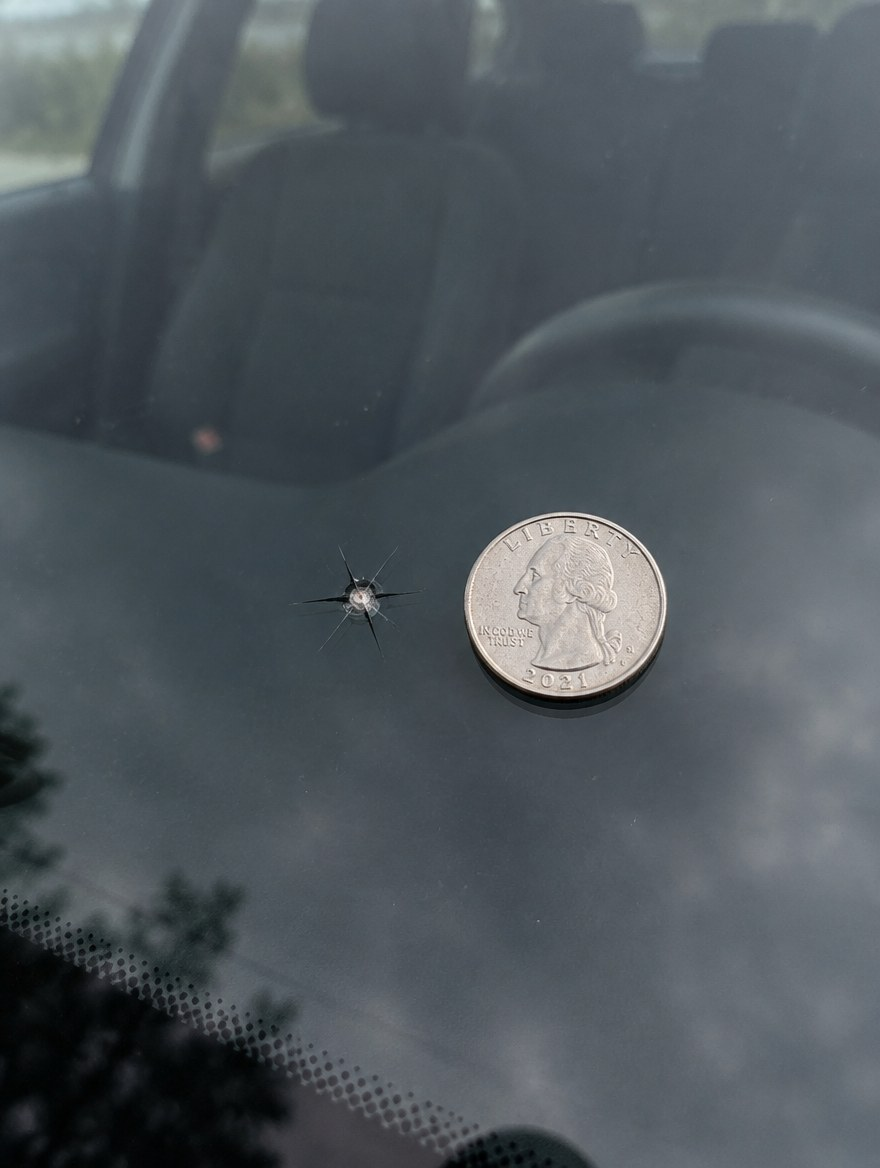
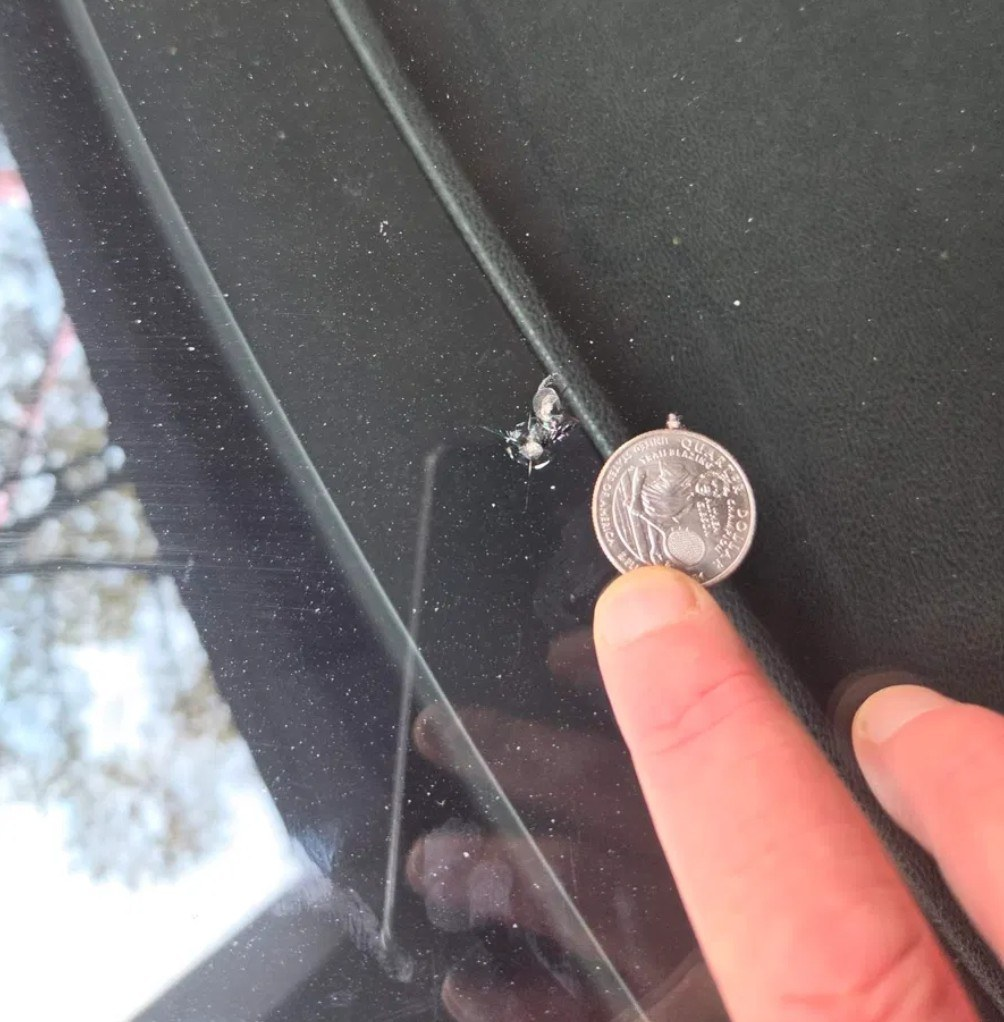
Real windshield sample photo (replaces the AI-generated one); README sample disclosure updated
Claude-Session: https://claude.ai/code/session_01HUSseLV9L3fPVtWv31s9pU

diff --git a/README.md b/README.md
@@ -163,7 +163,7 @@ MODEL_API_KEY=... npm start      # live on the Meta Model API
 
 **Sample photos:** `public/samples/<id>.jpg` (or `.png`/`.webp`) with `public/samples/<id>.txt` beside it: first line is the chip label, the rest is the message sent with the photo. Ids: `tile`, `windshield`, `shoe`, `driveway` (a `face` sample is listed only with `SIGHT_FACE=1`). A chip can have several photos: `tile.jpg`, `tile-2.jpg`, `tile-3.jpg` ... are one sample, staged in that order. A chip with a photo gets a glowing dot; tapping it sends the photo (the Tile floor chip stages its photos first, so more can be added before Send). The photos are served as static files from `/samples/`.
 
-The samples in `public/samples/` are a mix, labeled honestly. **Real photos:** the three tile photos below, and `shoe.jpg` is the author's own foot on a sheet of printer paper (foot 11.0 in with a tape; Sight reads about 10.25 in on this photo because the heel is hidden by the leg, so a cleaner shot is planned). `tile.jpg`, `tile-2.jpg` and `tile-3.jpg` are real photos of one elevator floor with one letter sheet on it (true floor 22.25 sq ft, measured by the author with a tape). **AI-generated demo images, to be replaced with real photos:** `windshield.jpg` (a chip with a quarter) and `driveway.jpg` (a driveway with a double garage door). Measurements on generated images show the pipeline end to end, but a generated room has no true size to check against; the accuracy numbers above come from the rendered test scenes, plus the one tape-measured room described there.
+The samples in `public/samples/` are a mix, labeled honestly. **Real photos:** the three tile photos below, `windshield.jpg` (the author's own windshield chip beside a quarter; Sight reads 0.65 in, which we have not checked with a ruler; the quarter is held by a finger, so treat it as approximate), and `shoe.jpg` (the author's own foot on a sheet of printer paper; foot 11.0 in with a tape; Sight reads about 10.25 in on this photo because the heel is hidden by the leg, so a cleaner shot is planned). `tile.jpg`, `tile-2.jpg` and `tile-3.jpg` are real photos of one elevator floor with one letter sheet on it (true floor 22.25 sq ft, measured by the author with a tape). **AI-generated demo image, to be replaced with a real photo:** `driveway.jpg` (a driveway with a double garage door). Measurements on generated images show the pipeline end to end, but a generated room has no true size to check against; the accuracy numbers above come from the rendered test scenes, plus the tape-measured real floors described there.
 
 Node 22, Express, the OpenAI SDK pointed at the Meta Model API, `@meta-sam/parser` for SAM masks, `jpeg-js` for drawing SAM's outlines for Spark's check, `ws`, `multer`. Hosted on Render (`render.yaml`).
 
@@ -219,7 +219,7 @@ Every commit in this repository is from the hackathon window; the first is Oct 2
 | Nov 1 | Review fixes: the paper's long edge chosen with the camera (focal length), not pixel length; per-photo sanity bounds; rectangle-fill check; refused answers withhold every panel number; page never wipes staged photos, per-thumbnail ×, pins stay inside the photo; JSON 413; sample chips with several photos; README honesty on the rectangle limit and the half-turn claim | `23b9afe`, `a0246ec`, `7486132`, `246408f`, `f5570ce`, `6312a1b` (and this hash-only commit) |
 | Nov 1 | Verification fixes: a sheet too small to read is a retake (fit, score margin, 55 px), the fallback photo is the finest map, each photo's range is propagated from its sheet's corners, panel says 'a photo needs a retake'; page grid span, kept-first line, 24 px ×; README accuracy from the wrong-edge sweep, build-table dates | `9ff7ce2`, `d832155`, `0cf00ed` (and one hash-only commit) |
 | Nov 1 | The floor as a conversation: one photo gives "so far" and asks for more, each later photo is combined, bad photos are dropped and asked for again, "Send the next sample photo" and "Start over" on the page | `c73c559`, `c2b7805`, `d2361ff`, `7d386b1` |
-| Nov 1 | Sample photos: the bathroom from its two ends, a windshield chip, a side yard, a driveway (AI-generated demo images; the tile sample was later replaced with real elevator-floor photos) | `9fe3aa2` |
+| Nov 1 | Sample photos: the bathroom from its two ends, a windshield chip, a side yard, a driveway (AI-generated demo images; the tile and windshield samples were later replaced with real photos) | `9fe3aa2` |
 | Nov 1 | Review D fixes: a camera photo sent with nothing typed joins the floor; the 5th photo is stopped on the page; dropped photos badged and named under the answer; each distinct photo counts once per 10 minutes against the per-IP limit; Playwright page test; README | `749fcfe`, `a019ae2`, `a5bb9a9`, `37e2bdd` (and one hash-only commit) |
 | Nov 1 | After the first live run: fill bands (a floor with fixtures combines with the open floor as the tile area; under 55% refused), a 40% pairwise-overlap alignment check, a shared two-at-a-time budget for Spark's checks, the partial as the fallback after a refused combine, Spark's wording token budget raised and an honest panel line when it returns no text | `d0ce8dd` (and one hash-only commit) |
 | Nov 1 | Review E: tiles laid agree with the cut list on an open floor; the half turn chosen by contradiction, with a spanned range and a note when it is a guess; open sides (no photo reaches the wall) keep the answer a partial; RECT_FILL 0.95; the partial fallback at the limit; Spanish for the new notes; `reasoning_effort: minimal` for the wording | `0a72a1e` (and one hash-only commit) |
